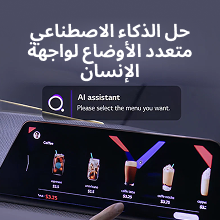
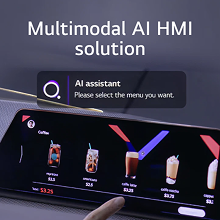
📝 MOD : AFRICA_FR 수정사항 반영

diff --git a/ai-gate/AFRICA_FR/src/index.html b/ai-gate/AFRICA_FR/src/index.html
@@ -115,7 +115,7 @@ Plan final : un fond blanc avec le logo LG AI et la phrase ''Votre Allié Intell
                       <li class="product-item">
                         <a href="https://www.lg.com/africa_fr/nanocell-tvs" data-tp="link">
                           <div class="img-bx">
-                            <img src="./assets/image/ai-gate-image-benefit01-products04.png" alt="Vue de face du produit LG Nanocell  AI" loading="lazy" data-tp="alt">
+                            <img src="./assets/image/ai-gate-image-benefit01-products04.png" alt="Vue de face du produit LG Nanocell AI" loading="lazy" data-tp="alt">
                           </div>
                           <span class="link-btn" data-tp="copy">Apprendre Encore Plus</span>
                         </a>
@@ -128,7 +128,7 @@ Plan final : un fond blanc avec le logo LG AI et la phrase ''Votre Allié Intell
                 <!-- S : tab-panel tab-2 -->
                 <div class="tab-panel" role="tabpanel" aria-labelledby="product-tab-2" id="product-panel-2" hidden="">
                   <div class="tab-panel-inner">
-                    <h2 class="tab-panel-title text-center" data-tp="copy">Vue de face du produit LG Nanocell  AI</h2>
+                    <h2 class="tab-panel-title text-center" data-tp="copy">LG AI détecte vos besoins et présente des solutions pour que votre vie s'écoule sans effort à votre rythme.</h2>
                     <!-- S : video-bx -->
                     <div class="video-bx responsive-video" data-desktop-video-src="./assets/video/ai-gate-video-benefit02-banner-video-desktop.mp4" data-mobile-video-src="./assets/video/ai-gate-video-benefit02-banner-video-mobile.mp4" data-desktop-poster-src="./assets/image/ai-gate-image-benefit02-banner-desktop.png" data-mobile-poster-src="./assets/image/ai-gate-image-benefit02-banner-mobile.png" aria-labelledby="benefit02-banner-video-description">
                       <span id="benefit02-banner-video-description" class="a11y-text" data-tp="copy">Une mère et son fils utilisent ensemble une machine à laver LG AI, tournant le cadran pour activer AI Wash. Un homme utilisant l'ordinateur portable LG gram apparaît dans la même séquence.</span>
@@ -188,7 +188,7 @@ Plan final : un fond blanc avec le logo LG AI et la phrase ''Votre Allié Intell
                       <li class="product-item">
                         <a href="https://www.lg.com/global/mobility/mobility-labworks-series/adas-solutions/in-cabin-vision" data-tp="link">
                           <div class="img-bx">
-                            <img src="./assets/image/ai-gate-image-benefit03-products02.png" alt="ADAS vision system product side view" loading="lazy" data-tp="alt">
+                            <img src="./assets/image/ai-gate-image-benefit03-products02.png" alt="Vue latérale du produit du système de vision ADAS" loading="lazy" data-tp="alt">
                           </div>
                           <span class="link-btn" data-tp="copy">Apprendre Encore Plus</span>
                         </a>
@@ -231,7 +231,7 @@ Plan final : un fond blanc avec le logo LG AI et la phrase ''Votre Allié Intell
                 <div class="tab-panel" role="tabpanel" aria-labelledby="feature-tab-1" id="feature-panel-1">
                   <div class="tab-panel-inner">
                     <!-- S : tab-panel-title -->
-                    <h2 class="tab-panel-title" data-tp="copy"><img src="./assets/image/ai-product-category-tv-eyebrow-logo-desktop.svg" alt="TV" class="eyebrow-logo" loading="lazy" data-tp="alt">
+                    <h2 class="tab-panel-title" data-tp="copy"><img src="./assets/image/ai-gate-image-product-category-tv-eyebrow-logo-desktop.svg" alt="TV" class="eyebrow-logo" loading="lazy" data-tp="alt">
                       Évolue pour satisfaire tous vos besoins de divertissement</h2>
                     <!-- E : tab-panel-title -->
                     <!-- S : tab-panel-text -->
@@ -313,7 +313,7 @@ Plan final : un fond blanc avec le logo LG AI et la phrase ''Votre Allié Intell
                 <div class="tab-panel" role="tabpanel" aria-labelledby="feature-tab-2" id="feature-panel-2">
                   <div class="tab-panel-inner">
                     <!-- S : tab-panel-title -->
-                    <h2 class="tab-panel-title" data-tp="copy"><img src="./assets/image/ai-product-category-audio-eyebrow-logo-desktop.svg" alt="Audio" class="eyebrow-logo" loading="lazy" data-tp="alt">
+                    <h2 class="tab-panel-title" data-tp="copy"><img src="./assets/image/ai-gate-image-product-category-audio-eyebrow-logo-desktop.svg" alt="Audio" class="eyebrow-logo" loading="lazy" data-tp="alt">
                       Cela semble particulièrement juste</h2>
                     <!-- E : tab-panel-title -->
                     <!-- S : tab-panel-text -->
@@ -375,7 +375,7 @@ Plan final : un fond blanc avec le logo LG AI et la phrase ''Votre Allié Intell
                 <div class="tab-panel" role="tabpanel" aria-labelledby="feature-tab-3" id="feature-panel-3">
                   <div class="tab-panel-inner">
                     <!-- S : tab-panel-title -->
-                    <h2 class="tab-panel-title" data-tp="copy"><img src="./assets/image/ai-product-category-appliances-eyebrow-logo-desktop.svg" alt="Appareils électroménagers" class="eyebrow-logo" loading="lazy" data-tp="alt">
+                    <h2 class="tab-panel-title" data-tp="copy"><img src="./assets/image/ai-gate-image-product-category-appliances-eyebrow-logo-desktop.svg" alt="Appareils électroménagers" class="eyebrow-logo" loading="lazy" data-tp="alt">
                       Allégez toutes vos charges</h2>
                     <!-- E : tab-panel-title -->  
                     <!-- S : tab-panel-text -->
@@ -434,7 +434,7 @@ Plan final : un fond blanc avec le logo LG AI et la phrase ''Votre Allié Intell
                 <div class="tab-panel" role="tabpanel" aria-labelledby="feature-tab-4" id="feature-panel-4">
                   <div class="tab-panel-inner">
                     <!-- S : tab-panel-title -->
-                    <h2 class="tab-panel-title" data-tp="copy"><img src="./assets/image/ai-product-category-air-conditioning-eyebrow-logo-desktop.svg" alt="Climatisation" class="eyebrow-logo" loading="lazy" data-tp="alt">
+                    <h2 class="tab-panel-title" data-tp="copy"><img src="./assets/image/ai-gate-image-product-category-air-conditioning-eyebrow-logo-desktop.svg" alt="Climatisation" class="eyebrow-logo" loading="lazy" data-tp="alt">
                       Confort avec un refroidissement parfaitement réglé</h2>
                     <!-- E : tab-panel-title -->
                     <!-- S : tab-panel-text -->
@@ -486,6 +486,7 @@ Plan final : un fond blanc avec le logo LG AI et la phrase ''Votre Allié Intell
                       <li data-tp="copy">****Lorsque l'AI Air est activé, le capteur radar détecte la position de l'occupant et active automatiquement le vent direct/indirect.</li>
                       <li data-tp="copy">*****La distance de détection du capteur radar peut atteindre 5 m, et des différences peuvent survenir selon l'installation et l'environnement d'utilisation du produit.</li>
                       <li data-tp="copy">*****Cette fonction est uniquement compatible avec les modèles équipés de capteurs radar.</li>
+                      <li data-tp="copy">*******Le produit n'est pas encore disponible.</li>
                     </ul>
                     <!-- E : tab-panel-disclaimer -->
                   </div>
